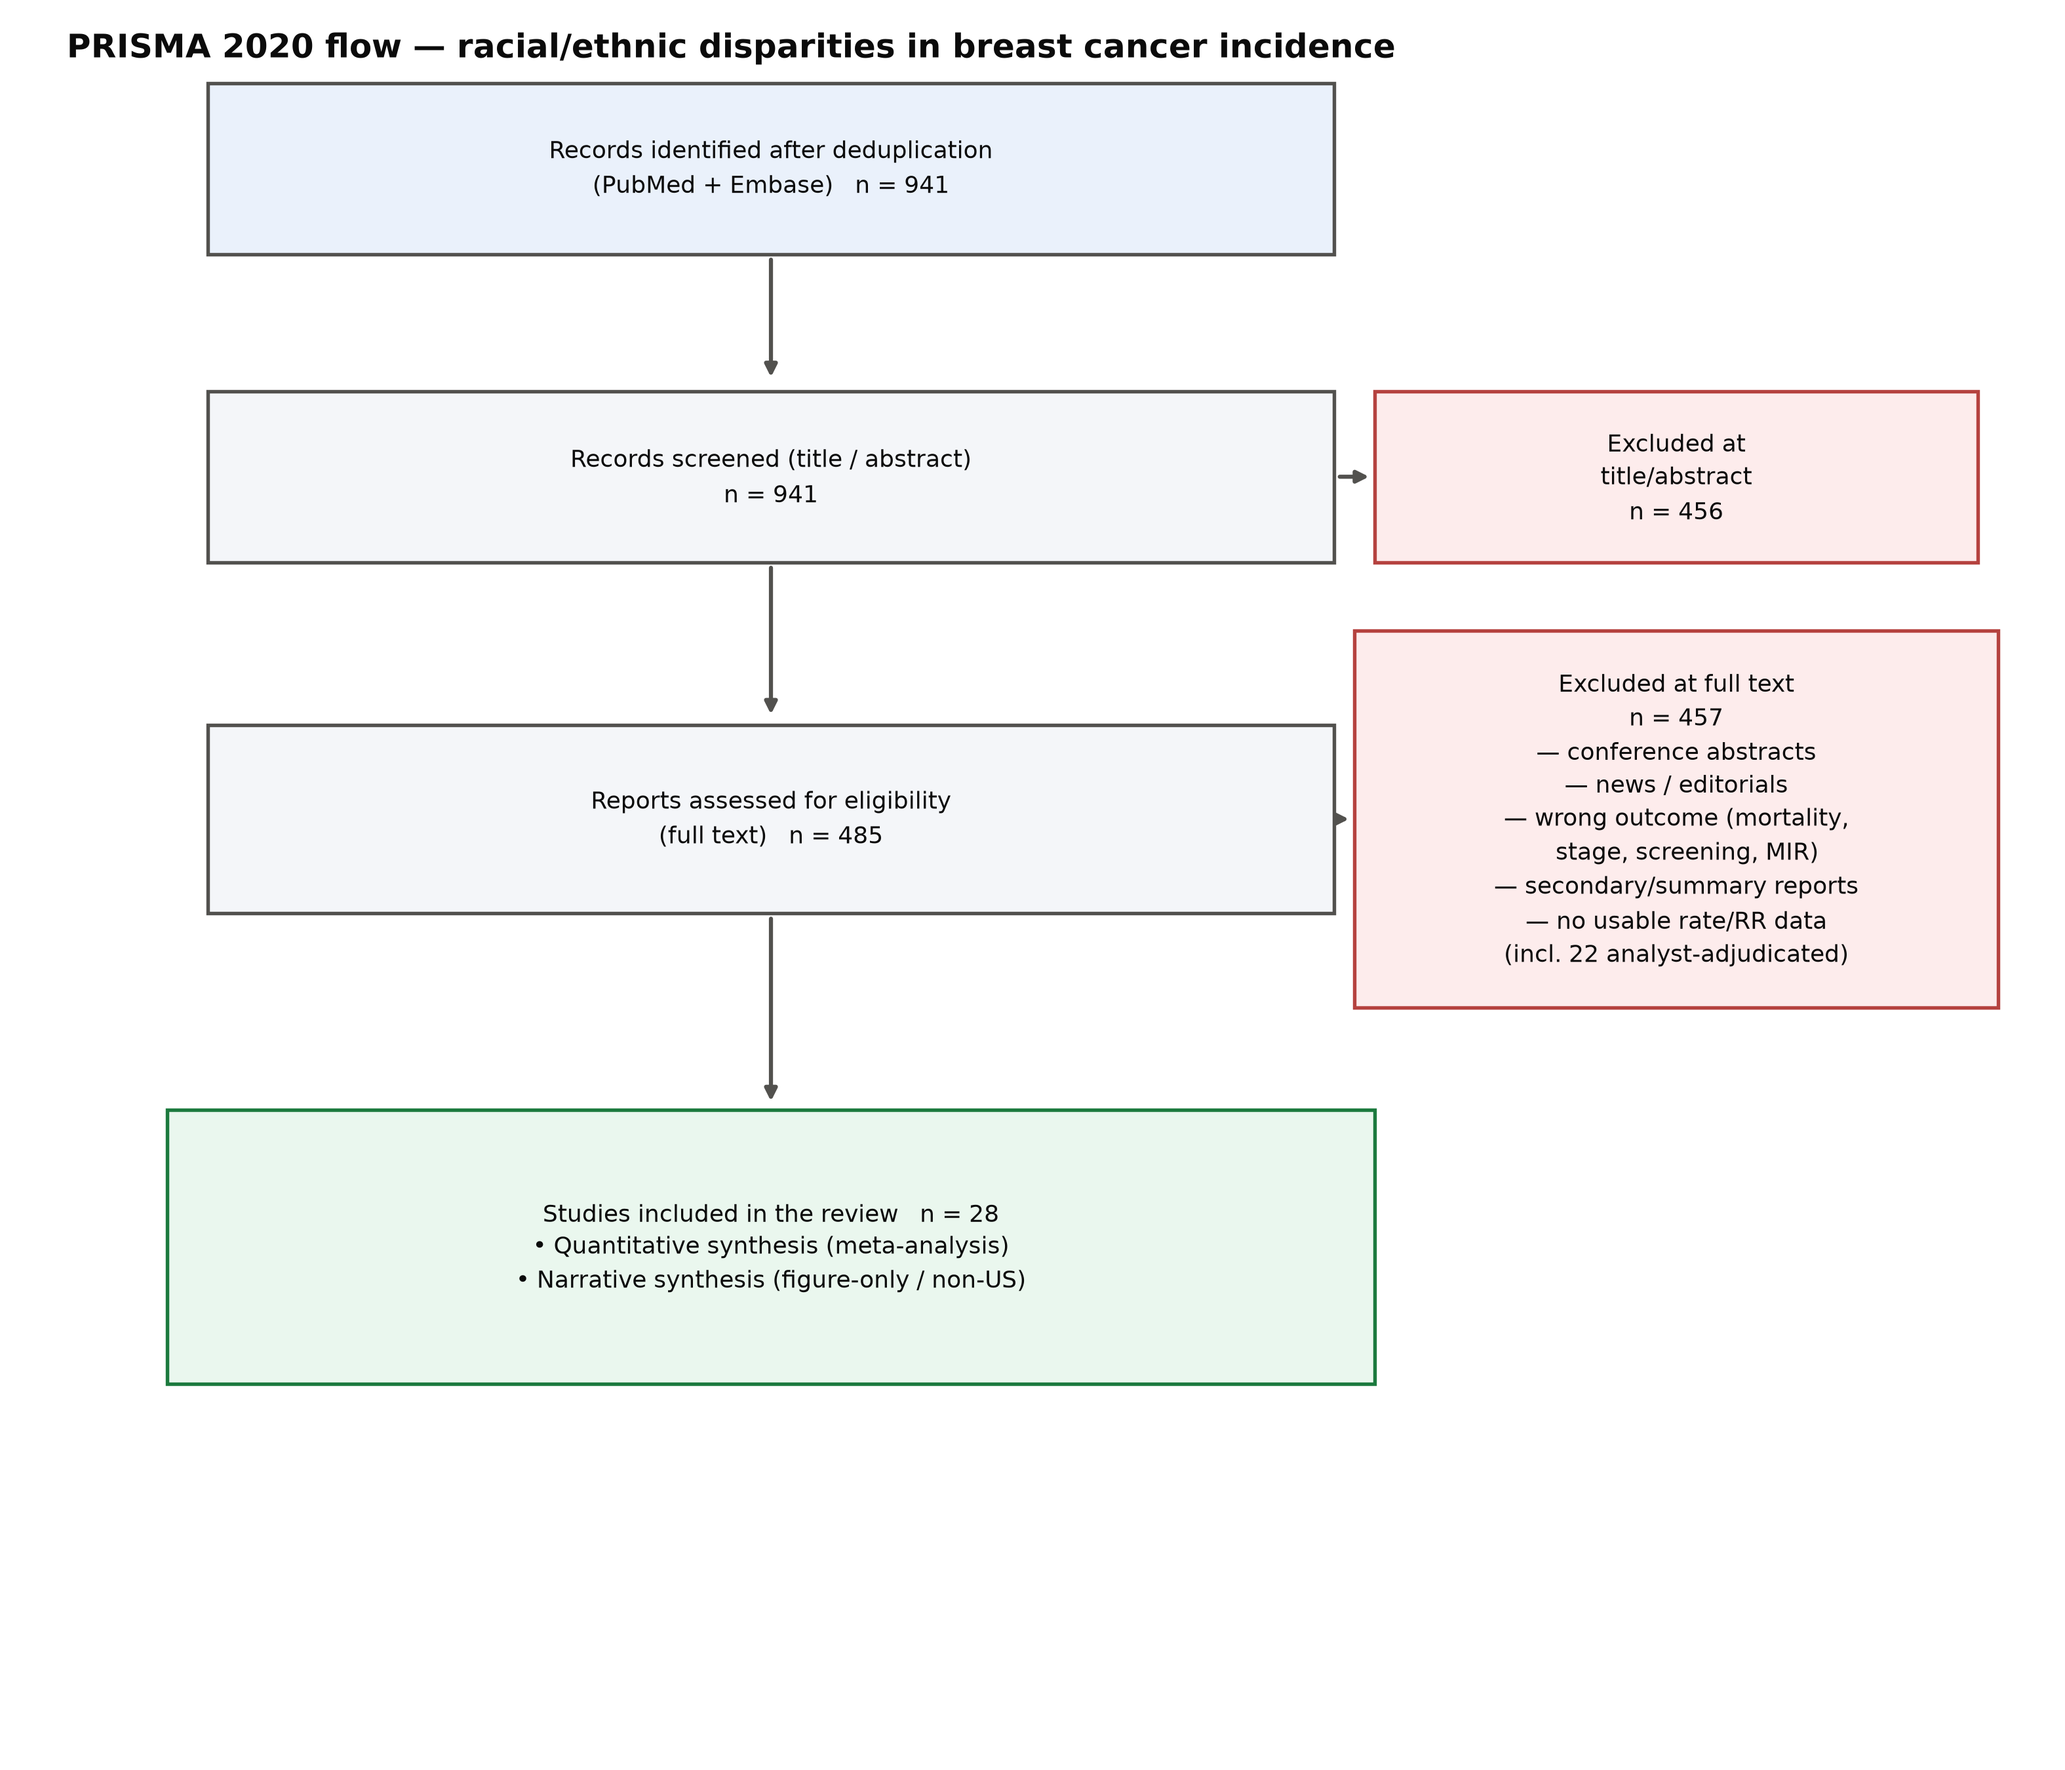
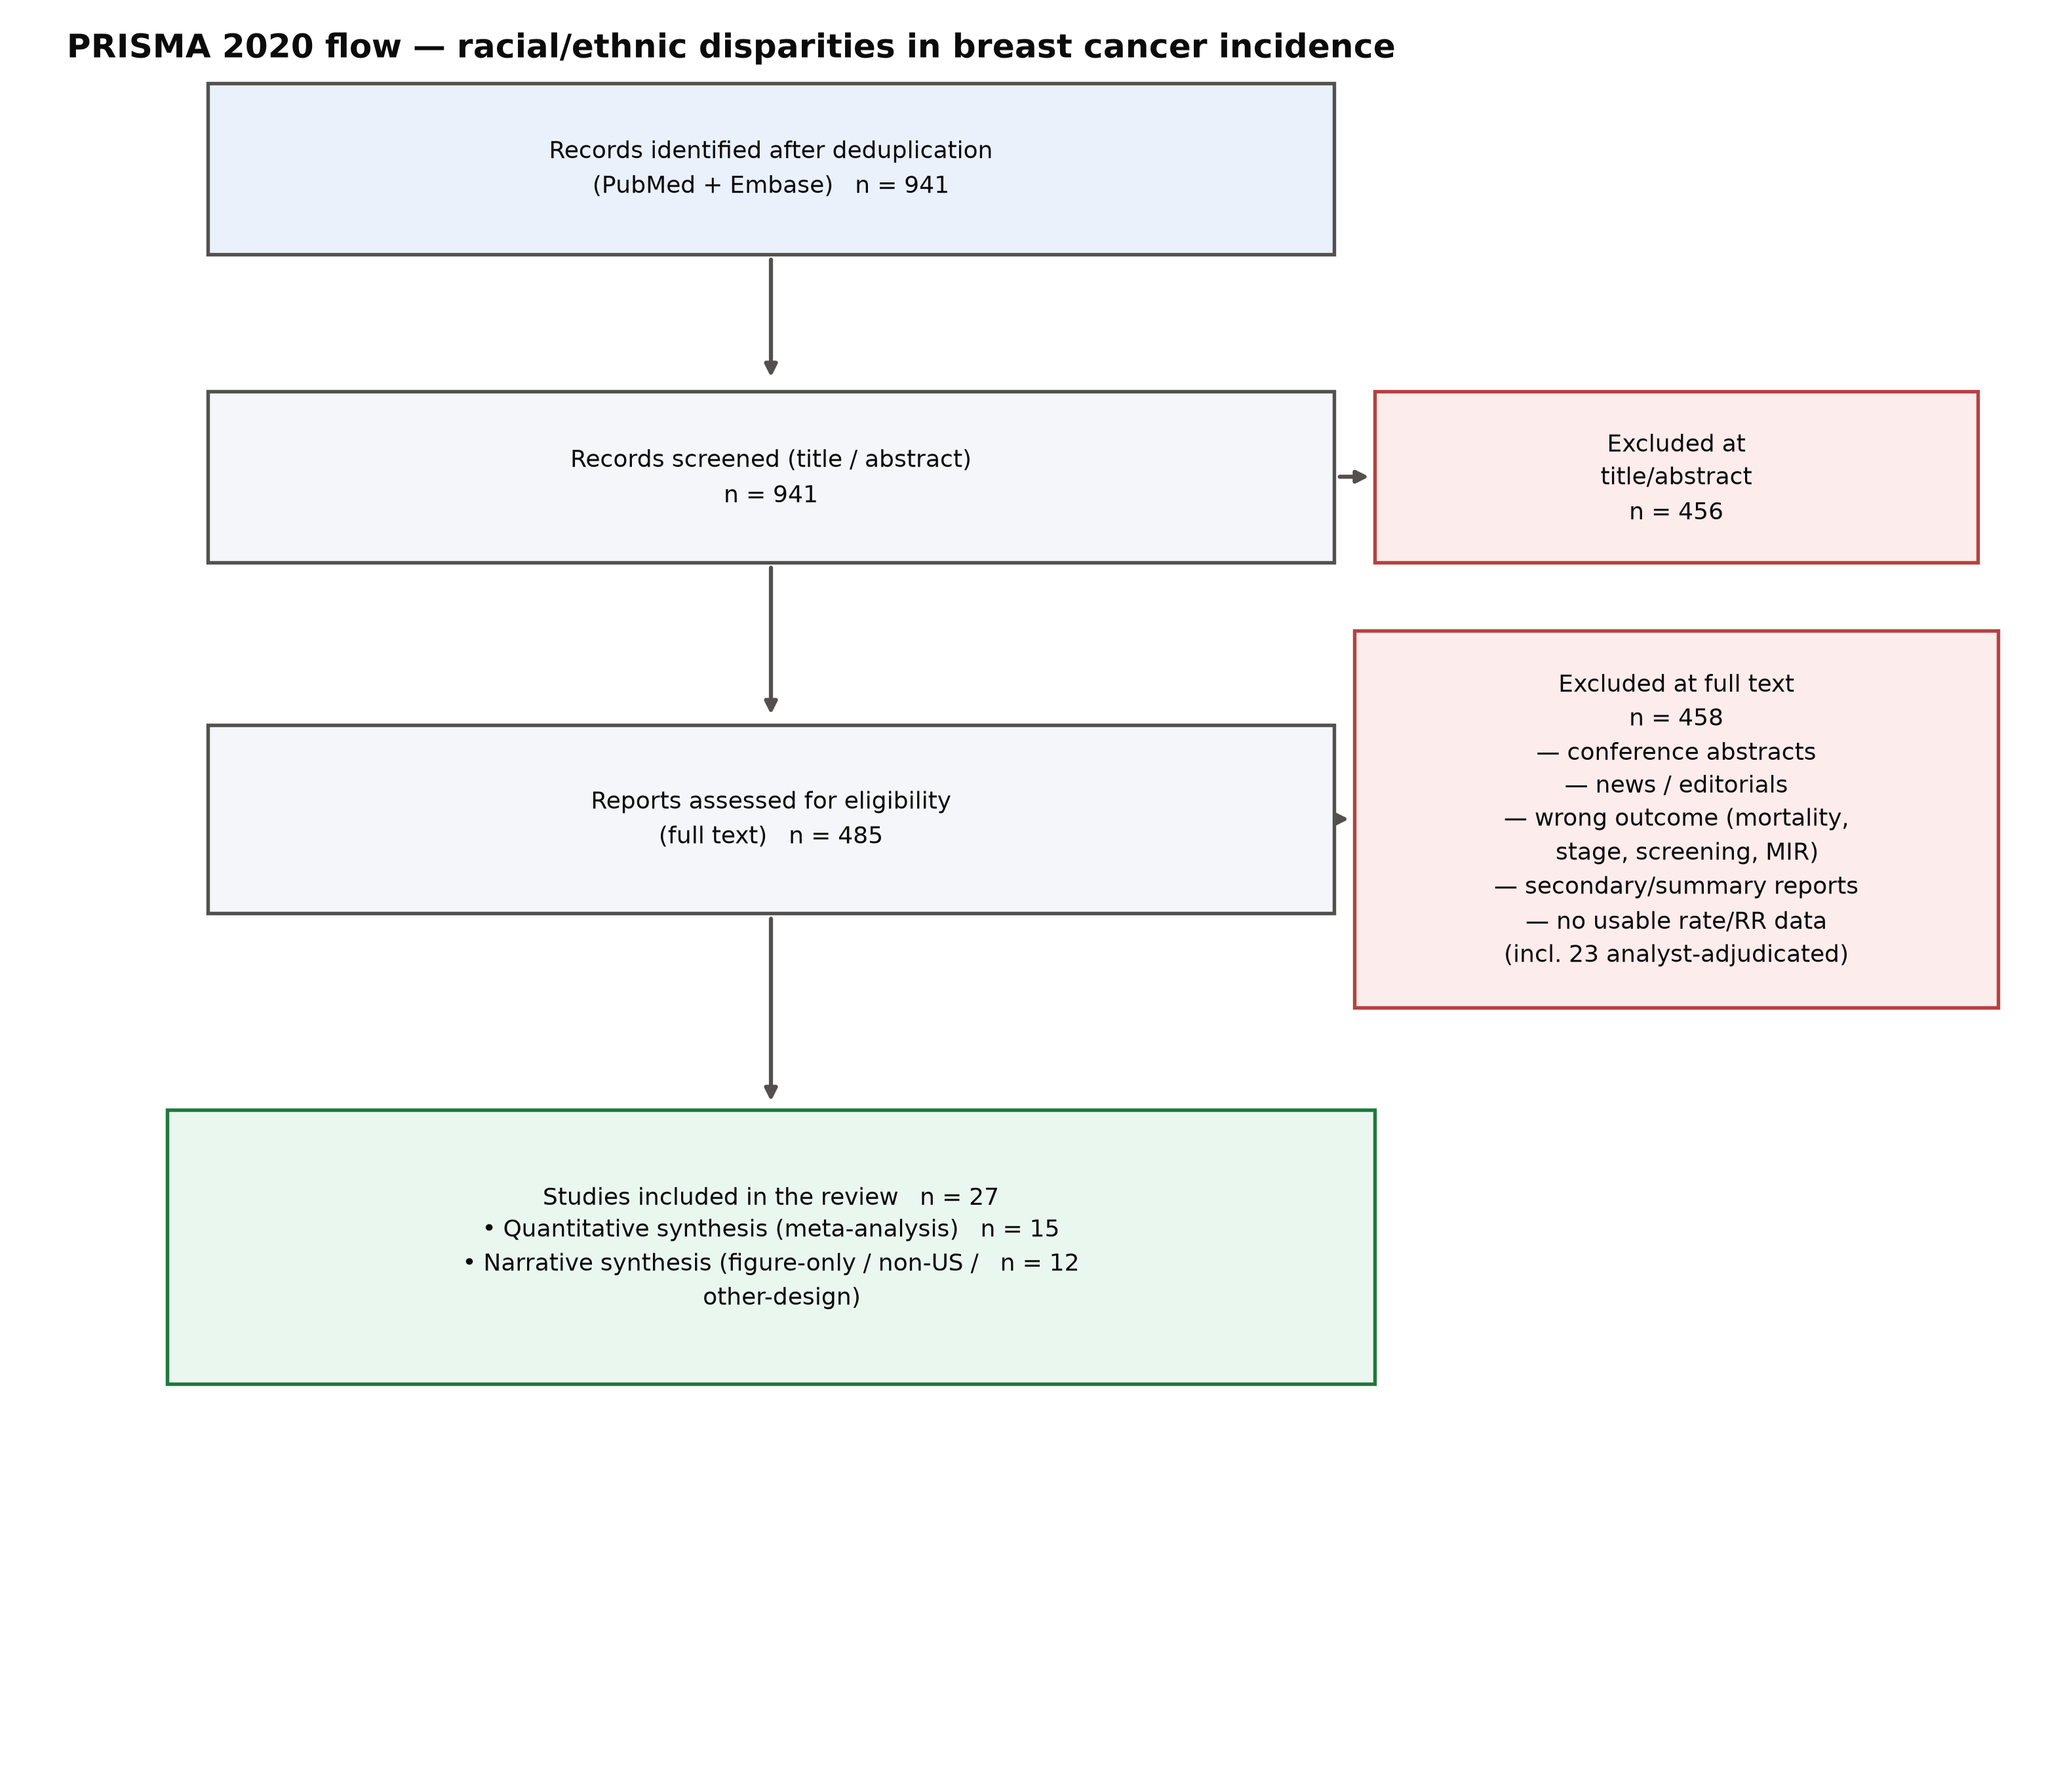
Finalize study set: exclude 33006431 (Canada+MIR), lock US-only quantitative synthesis
Analyst decision: US-only PICO for quantitative synthesis. 33006431 excluded
(Canadian population + mortality-to-incidence ratio outcome). Non-US UK studies
(25214237, 39822259) retained as international-comparison narrative. Final:
27 included = 15 quantitative + 12 narrative. PRISMA updated (full-text excluded
458, incl. 23 analyst-adjudicated).

Claude-Session: https://claude.ai/code/session_01CuLT4FKRBtsU22Vwfjj2qn

Changed region(s): [[0.2489, 0.6533, 0.4978, 0.7467]]

diff --git a/meta_agents/make_figures.py b/meta_agents/make_figures.py
@@ -327,12 +327,14 @@ def fig4():
 
 # ── Figure 5: PRISMA 2020 flow diagram ───────────────────────────────────────
 def fig5():
-    # Final counts from Codespace report_status.py (cache 8f982a):
+    # Final counts (Codespace report_status.py cache 8f982a + analyst reconciliation).
     N_DEDUP = 941       # identified after deduplication
     N_ABS_EXCL = 456    # excluded at title/abstract (941 - 485)
     N_FULLTEXT = 485    # advanced past abstract → full-text assessed
-    N_FT_EXCL = 457     # excluded at full text (incl. 22 analyst overrides)
-    N_INCL = 28         # included in review (27 meta-eligible + 1 narrative)
+    N_FT_EXCL = 458     # excluded at full text (incl. 23 analyst; +33006431 non-US/MIR)
+    N_INCL = 27         # included in review after reconciliation
+    N_QUANT = 15        # quantitative synthesis (meta-analysis)
+    N_NARR = 12         # narrative synthesis
 
     fig, ax = plt.subplots(figsize=(10.5, 9))
     fig.patch.set_facecolor(SURFACE); ax.set_facecolor(SURFACE)
@@ -358,8 +360,9 @@ def fig5():
     box(cx, 5.4, 5.6, 1.1, f"Reports assessed for eligibility\n(full text)   n = {N_FULLTEXT}")
     box(cx, 2.9, 6.0, 1.6,
         f"Studies included in the review   n = {N_INCL}\n"
-        f"• Quantitative synthesis (meta-analysis)\n"
-        f"• Narrative synthesis (figure-only / non-US)",
+        f"• Quantitative synthesis (meta-analysis)   n = {N_QUANT}\n"
+        f"• Narrative synthesis (figure-only / non-US /   n = {N_NARR}\n"
+        f"   other-design)",
         fc="#eaf7ee", ec="#1c7a3e")
     arrow(cx, 8.7, cx, 7.95)
     arrow(cx, 6.9, cx, 5.98)
@@ -374,7 +377,7 @@ def fig5():
         "— conference abstracts\n— news / editorials\n"
         "— wrong outcome (mortality,\n   stage, screening, MIR)\n"
         "— secondary/summary reports\n— no usable rate/RR data\n"
-        "(incl. 22 analyst-adjudicated)",
+        "(incl. 23 analyst-adjudicated)",
         fc="#fdecec", ec="#b5423f")
     arrow(cx + 2.8, 5.4, ex - 1.6, 5.4)
 
